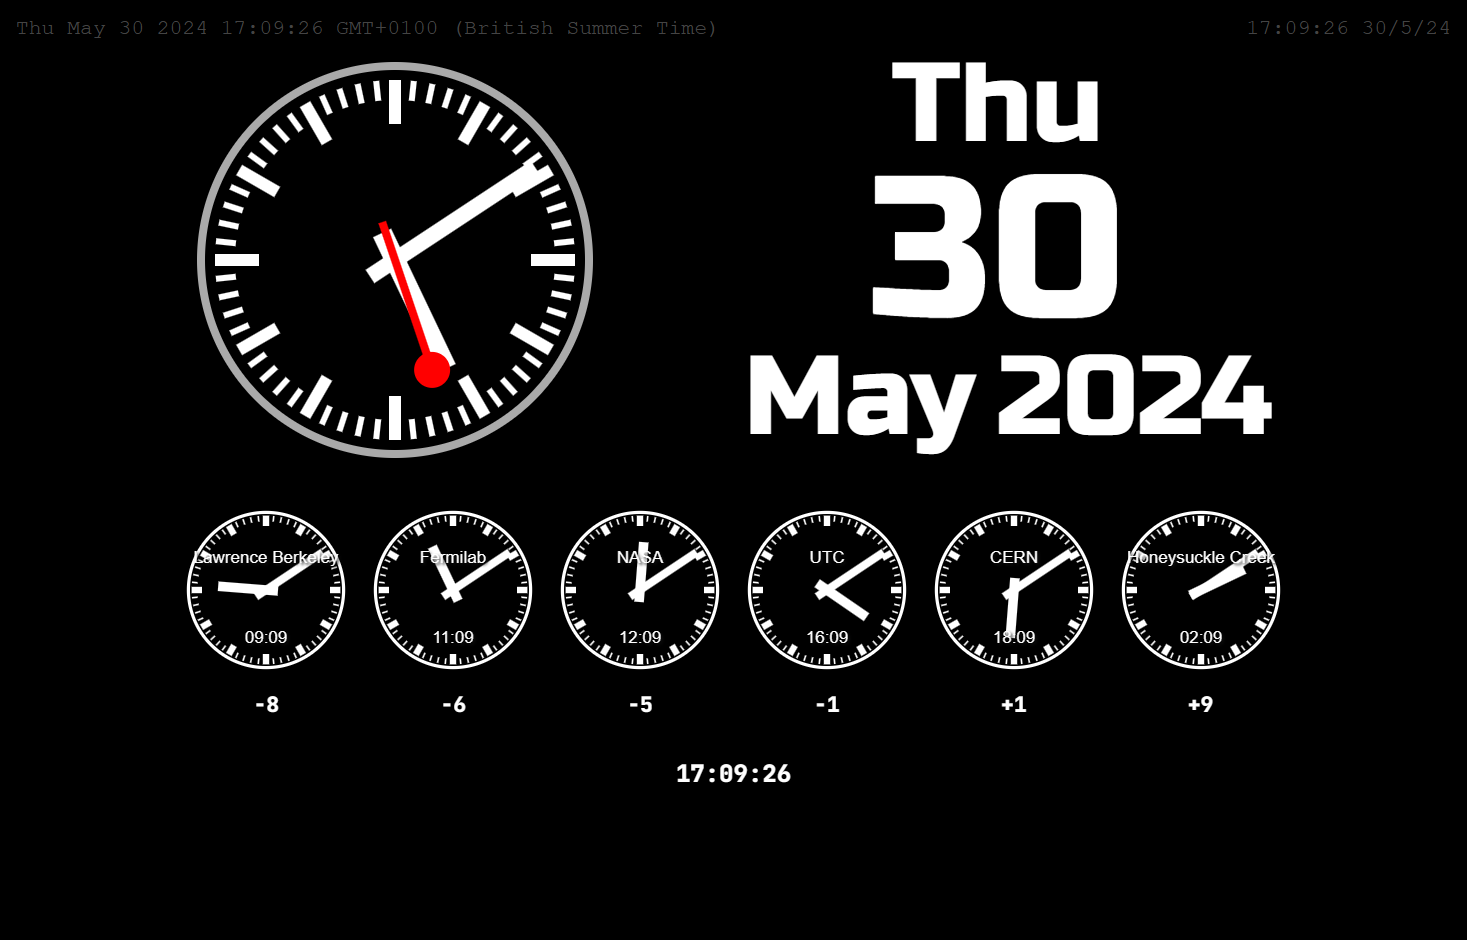
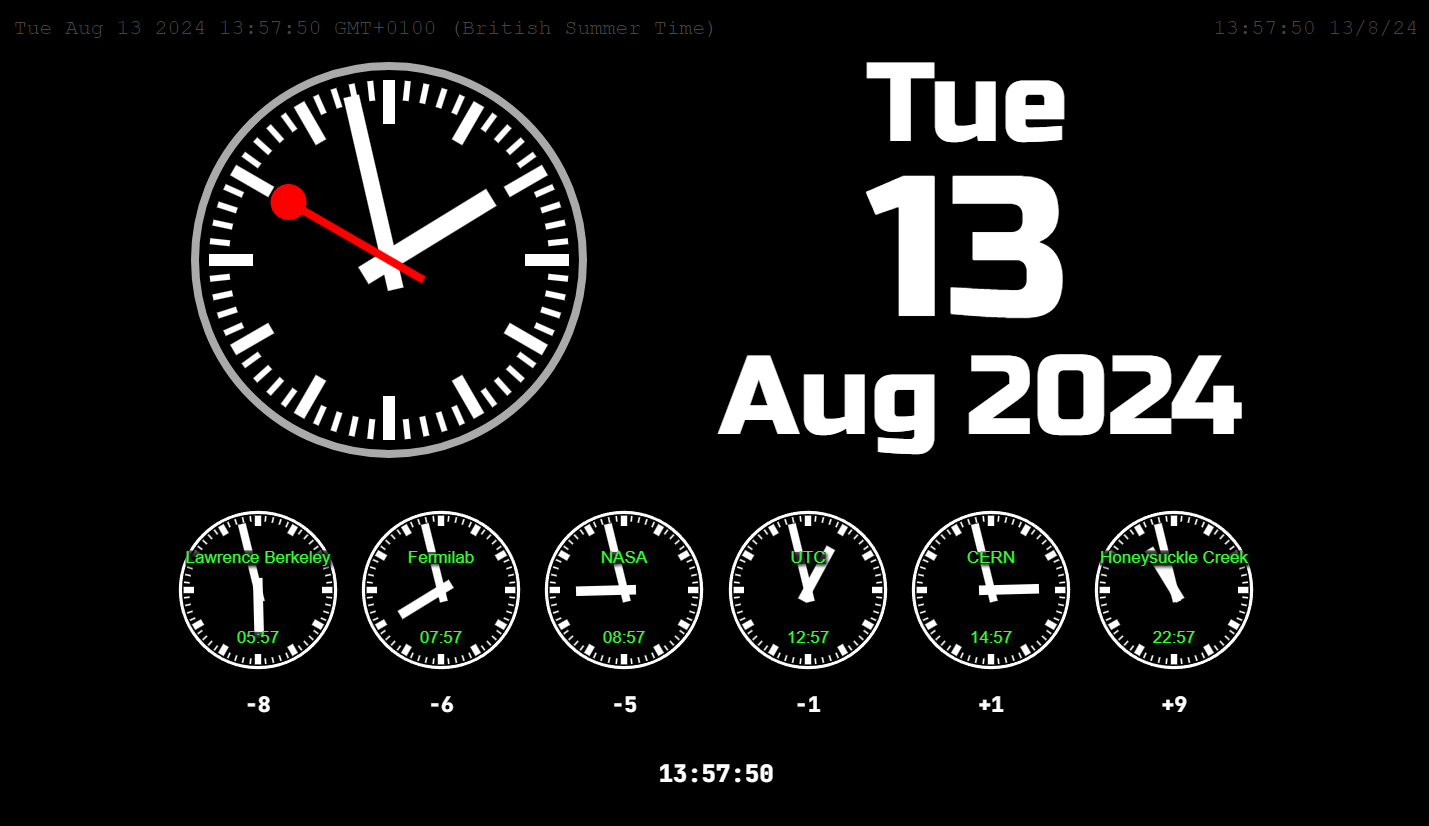
coolclockmb.html renamed to index.html

diff --git a/moreskins.js b/moreskins.js
@@ -220,53 +220,40 @@ CoolClock.config.skins = {
 		secondDecoration: { lineWidth: 1, startAt: 70, radius: 3, fillColor: "red", color: "black", alpha: .7 }
 	}
 		,
-		// By mbridge
-	// Original running on saturn
-	chunkySwissMBsaturn: {
-		outerBorder: { lineWidth: 4, radius:97, color: "white", alpha: 1 },
-		smallIndicator: { lineWidth: 2, startAt: 86, endAt: 93, color: "white", alpha: 1 },
-		largeIndicator: { lineWidth: 8, startAt: 80, endAt: 93, color: "white", alpha: 1 },
-		hourHand: { lineWidth: 12, startAt: -15, endAt: 60, color: "white", alpha: 1 },
-		minuteHand: { lineWidth: 10, startAt: -15, endAt: 85, color: "white", alpha: 1 },
-		secondHand: { lineWidth: 4, startAt: -20, endAt: 72, color: "red", alpha: 1 },
-		secondDecoration: { lineWidth: 2, startAt: 70, radius: 8, fillColor: "red", color: "red", alpha: 1 },
-		ampm: { color: "white", font: "bold 14pt 'b612 mono', sans-serif", alpha: 1 } ,
-		digits: { lineWidth: 2, color: "#888888", font: "bold 16pt 'JetBrains mono', sans-serif", alpha: 1 }
-	},
-	
-	// Measurements from wikimedia image of real clock
+	// By mbridge
+	// Measurements from wikimedia image of real swiss clock
 	chunkySwissMB: {
-		outerBorder: { lineWidth: 4, radius:97, color: "#aaa", alpha: 1 },
-		smallIndicator: { lineWidth: 3, startAt: 80, endAt: 90, color: "white", alpha: 1 },
-		largeIndicator: { lineWidth: 6, startAt: 68, endAt: 90, color: "white", alpha: 1 },
-		hourHand: { lineWidth: 10, startAt: -15, endAt: 60, color: "white", alpha: 1 },
-		minuteHand: { lineWidth: 8, startAt: -15, endAt: 84, color: "white", alpha: 1 },
-		secondHand: { lineWidth: 4, startAt: -20, endAt: 60, color: "red", alpha: 1 },
+		outerBorder:      { lineWidth: 4, radius:97, color: "#aaa", alpha: 1 },
+		smallIndicator:   { lineWidth: 3, startAt: 80, endAt: 90, color: "white", alpha: 1 },
+		largeIndicator:   { lineWidth: 6, startAt: 68, endAt: 90, color: "white", alpha: 1 },
+		hourHand:         { lineWidth: 10, startAt: -15, endAt: 60, color: "white", alpha: 1 },
+		minuteHand:       { lineWidth: 8, startAt: -15, endAt: 84, color: "white", alpha: 1 },
+		secondHand:       { lineWidth: 4, startAt: -20, endAt: 60, color: "red", alpha: 1 },
 		secondDecoration: { lineWidth: 2, startAt: 58, radius: 8, fillColor: "red", color: "red", alpha: 1 },
-		ampm: { color: "red", font: "bold 14pt 'b612 mono', sans-serif", alpha: 1 } ,
-		digits: { lineWidth: 2, color: "#888888", font: "bold 16pt 'JetBrains mono', sans-serif", alpha: 1 }
+		ampm:             { color: "red", font: "bold 14pt 'b612 mono', sans-serif", alpha: 1 } ,
+		digits:           { lineWidth: 2, color: "#888888", font: "bold 16pt 'JetBrains mono', sans-serif", alpha: 1 }
 	},
 
-	chunkySwissOnBlack: {
-		outerBorder: { lineWidth: 4, radius:97, color: "#ffffff", alpha: 1 },
-		smallIndicator: { lineWidth: 4, startAt: 89, endAt: 93, color: "#ffffff", alpha: 1 },
-		largeIndicator: { lineWidth: 8, startAt: 80, endAt: 93, color: "#ffffff", alpha: 1 },
-		hourHand: { lineWidth: 12, startAt: -15, endAt: 60, color: "#ffffff", alpha: 1 },
-		minuteHand: { lineWidth: 10, startAt: -15, endAt: 85, color: "#ffffff", alpha: 1 },
-		secondHand: { lineWidth: 4, startAt: -20, endAt: 85, color: "#ff5555", alpha: 1 },
-		secondDecoration: { lineWidth: 2, startAt: 70, radius: 8, fillColor: "#ff5555", color: "#ff5555", alpha: 1 },
-		ampm: { color: "red", font: "bold 14pt 'b612 mono', sans-serif", alpha: 1 } ,
-	},
-	
+	// Looks a little better on smaller clocks
+	chunkySwissMBsmall: {
+        outerBorder: { lineWidth: 4, radius:97, color: "white", alpha: 1 },
+        smallIndicator: { lineWidth: 2, startAt: 86, endAt: 93, color: "white", alpha: 1 },
+        largeIndicator: { lineWidth: 8, startAt: 80, endAt: 93, color: "white", alpha: 1 },
+        hourHand: { lineWidth: 12, startAt: -15, endAt: 60, color: "white", alpha: 1 },
+        minuteHand: { lineWidth: 10, startAt: -15, endAt: 85, color: "white", alpha: 1 },
+        secondHand: { lineWidth: 4, startAt: -20, endAt: 72, color: "red", alpha: 1 },
+        secondDecoration: { lineWidth: 2, startAt: 70, radius: 8, fillColor: "red", color: "red", alpha: 1 },
+        ampm: { color: "white", font: "bold 14pt 'b612 mono', sans-serif", alpha: 1 } ,
+        digits: { lineWidth: 2, color: "#888888", font: "bold 16pt 'JetBrains mono', sans-serif", alpha: 1 }
+    },
+
+	// Karlsson makes a popular flipclock with analog clockface
 	karlsson: {
-		outerBorder: { lineWidth: 4, radius:97, color: "#000", alpha: 0.7 },
-		// smallIndicator: { lineWidth: 3, startAt: 80, endAt: 90, color: "white", alpha: 1 },
-		largeIndicator: { lineWidth: 6, startAt: 64, endAt: 93, color: "white", alpha: 1 },
-		hourHand: { lineWidth: 10, startAt: -15, endAt: 60, color: "white", alpha: 1 },
-		minuteHand: { lineWidth: 8, startAt: -15, endAt: 84, color: "white", alpha: 1 },
-		secondHand: { lineWidth: 2, startAt: -20, endAt: 66, color: "red", alpha: 1 },
-		// secondDecoration: { lineWidth: 2, startAt: 58, radius: 8, fillColor: "red", color: "red", alpha: 1 },
+		outerBorder:      { lineWidth: 4, radius:97, color: "#000", alpha: 0.7 },
+		largeIndicator:   { lineWidth: 6, startAt: 64, endAt: 93, color: "white", alpha: 1 },
+		hourHand:         { lineWidth: 10, startAt: -15, endAt: 60, color: "white", alpha: 1 },
+		minuteHand:       { lineWidth: 8, startAt: -15, endAt: 84, color: "white", alpha: 1 },
+		secondHand:       { lineWidth: 2, startAt: -20, endAt: 90, color: "red", alpha: 1 },
 	},
-
 	
 };

diff --git a/index.html b/index.html
@@ -172,7 +172,7 @@
 				{ title: "Alaska (-9/-8)", timezone: "US/Alaska"}
 			]
 
-			var clocklist = labs;
+			var clocklist = observatories;
 
 			var d = document.getElementById('worldclocks');
 			var clock_id = 100;
@@ -228,16 +228,19 @@
 				content += `	<canvas id="c${clock_id}" `;
 				content += `            class="CoolClock" `;
 				content += `            _clockTitle="${title}"`;
-				content += `             _skinId="chunkySwissMBsaturn"`;
+				content += `             _skinId="chunkySwissMBsmall"`;
 				content += `             _displayRadius="80" `;
 				content += `            _secondHand="none" `;
 				content += `            _showdigital="true" `;
-				// content += `            _showampm="" `;
 				content += `            ${tz_str}">`;
+				// content += `            _showampm="" `;
 				content += `    </canvas>`;
+
+				// Can output clock titles in HTML rather than on the clock canvas
 				// content += '	<div class="smallclocktitle">';	
 				// content += `        ${title}`;
 				// content += `    </div>`;
+				
 				content += `    <div class="tz_offset">${offset_signed}</div>`;
 				content += '</div>';
 				d.innerHTML+= content;

diff --git a/demo.html b/demo.html
@@ -136,6 +136,13 @@
 			<canvas id="clock184" class="CoolClock" _skinId="Disc" _textSkinId="std" _timeZone="Europe/Nicosia" _clockTitle="Nicosia" _showDigital></canvas>
 			</p>
 
+			<p style="background-color: #222222;">
+			<canvas id="clock185" class="CoolClock" _skinId="chunkySwissMB" _textSkinId="std" _clockTitle="Local Time" _showDigital></canvas>
+			<canvas id="clock186" class="CoolClock" _skinId="chunkySwissMB" _textSkinId="std" _timeZone="America/New_York" _clockTitle="New York" _showDigital></canvas>
+			<canvas id="clock187" class="CoolClock" _skinId="chunkySwissMBsmall" _textSkinId="std" _timeZone="Europe/London" _clockTitle="London" _showDigital></canvas>
+			<canvas id="clock188" class="CoolClock" _skinId="karlsson" _textSkinId="std" _timeZone="Europe/Nicosia" _clockTitle="Nicosia" _showDigital></canvas>
+			</p>
+			
 			<script src="http://ajax.googleapis.com/ajax/libs/jquery/1.11.3/jquery.min.js"></script>
 			<script src="coolclock.js"></script>
 			<script src="moreskins.js"></script>
